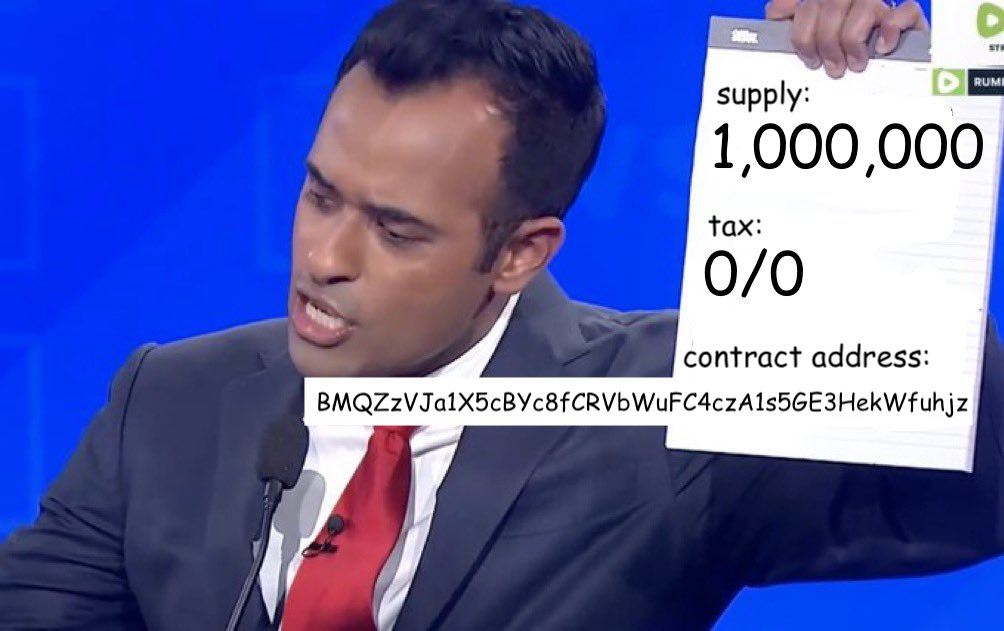
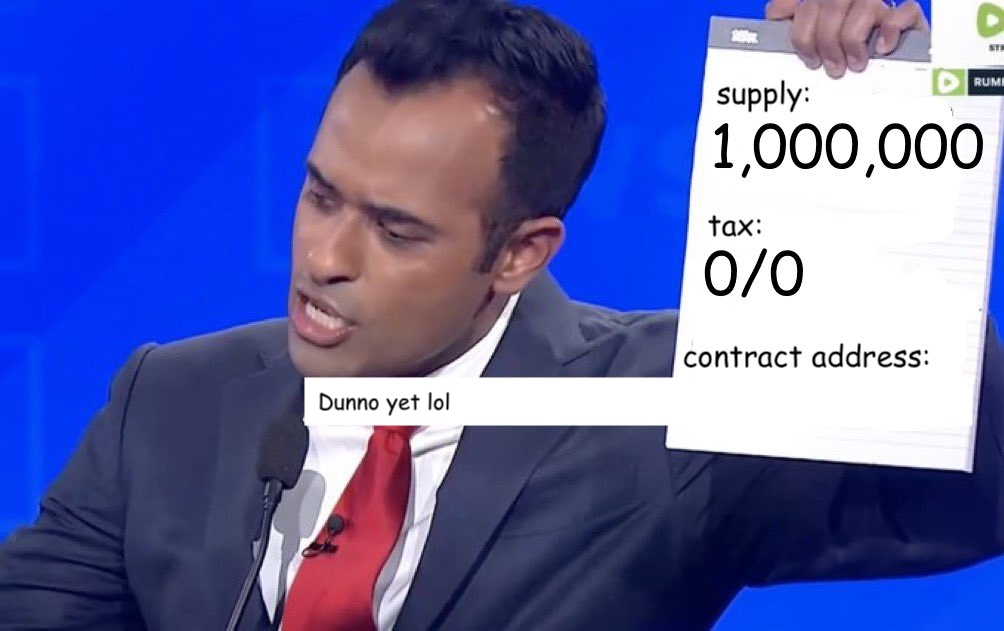
Update X link, remove dummy token address

Changed region(s): [[0.3088, 0.6022, 0.988, 0.6624]]

diff --git a/app/page.tsx b/app/page.tsx
@@ -6,18 +6,18 @@ import Button from "@mui/material/Button";
 import Paper from "@mui/material/Paper";
 import IconButton from "@mui/material/IconButton";
 import vivek from "./assets/vivek-himself.png";
-import amezunGuy from "./assets/Adsiz-tasarim-kopyasi.webp";
-import amezunWork from "./assets/amezun-work.webp";
 import vivekNotepad from "./assets/vivek-notepad.jpeg";
 import vivekRockChild from "./assets/vivek-rock-child.png";
-import smilingEmoji from "./assets/smiling-emoji.jpg";
 import XIcon from "@mui/icons-material/X";
-import TelegramIcon from "@mui/icons-material/Telegram";
-import { COIN_NAME, TAGLINE, CONTRACT_ADDRESS } from "./constants";
+import {
+  COIN_NAME,
+  TAGLINE,
+  CONTRACT_ADDRESS,
+  TWITTER_HANDLE,
+} from "./constants";
 import Dialog from "@mui/material/Dialog";
 import DialogContent from "@mui/material/DialogContent";
 import DialogContentText from "@mui/material/DialogContentText";
-import DialogTitle from "@mui/material/DialogTitle";
 
 export default function Home() {
   const [open, setOpen] = React.useState(false);
@@ -63,7 +63,7 @@ export default function Home() {
             className="w-full"
           />
         </section>
-        <section className="p-16">
+        <section className="p-8 sm:p-16">
           <header className="text-center mb-8">
             <h2 className="text-5xl sm:text-6xl md:text-8xl">wiwek rama$wag</h2>
           </header>
@@ -77,7 +77,7 @@ export default function Home() {
               <h4 className="text-3xl sm:text-4xl md:text-5xl mb-4 text-gray-400">
                 {TAGLINE}
               </h4>
-              <p>
+              <p className="text-lg">
                 {`oh heyyo, me Vivek Ramaswag (the 1 in the middl), dat boi who go "nuh-uh" to pharma
                 biggie life, flingin' shade at thicc corp 'wokez'. Rote "Woak,
                 Ink." cuz moolah > virtue-flashin', y'feel? Might yeeto into
@@ -178,11 +178,8 @@ export default function Home() {
             {CONTRACT_ADDRESS}
           </p>
           <div className="flex flex-row gap-4">
-            <IconButton onClick={() => {}}>
+            <IconButton href={`https://twitter.com/${TWITTER_HANDLE}`}>
               <XIcon />
-            </IconButton>
-            <IconButton onClick={() => {}}>
-              <TelegramIcon />
             </IconButton>
           </div>
 

diff --git a/app/components/Navbar.tsx b/app/components/Navbar.tsx
@@ -1,7 +1,7 @@
 "use client";
 
 import * as React from "react";
-import { COIN_NAME } from "../constants";
+import { COIN_NAME, TWITTER_HANDLE } from "../constants";
 import AppBar from "@mui/material/AppBar";
 import Box from "@mui/material/Box";
 import Toolbar from "@mui/material/Toolbar";
@@ -13,7 +13,14 @@ import Container from "@mui/material/Container";
 import Button from "@mui/material/Button";
 import MenuItem from "@mui/material/MenuItem";
 
-const pages = ["Tweetr (I mean X)", "Telgrum"];
+type navLink = {
+  text: string;
+  link: string;
+};
+
+const pages: navLink[] = [
+  { text: "Tweetr (I mean X)", link: `https://twitter.com/${TWITTER_HANDLE}` },
+];
 
 function Navbar() {
   const [anchorElNav, setAnchorElNav] = React.useState<null | HTMLElement>(
@@ -95,8 +102,8 @@ function Navbar() {
               className="block md:hidden"
             >
               {pages.map((page) => (
-                <MenuItem key={page} onClick={handleCloseNavMenu}>
-                  <Typography textAlign="center">{page}</Typography>
+                <MenuItem key={page.text} href={page.link}>
+                  <Typography textAlign="center">{page.text}</Typography>
                 </MenuItem>
               ))}
             </Menu>
@@ -105,11 +112,11 @@ function Navbar() {
             {pages.map((page) => (
               <Button
                 className="ml-5"
-                key={page}
-                onClick={handleCloseNavMenu}
+                key={page.text}
+                href={page.link}
                 sx={{ mx: 1, my: 2, color: "white", display: "block" }}
               >
-                {page}
+                {page.text}
               </Button>
             ))}
           </Box>

diff --git a/app/constants.ts b/app/constants.ts
@@ -1,3 +1,4 @@
 export const COIN_NAME = "WIWEK";
 export const TAGLINE = "woakism not broakism";
-export const CONTRACT_ADDRESS = "EcRzZKeytynRaFBFg8nmZsKv1CT865a913RNWiJcm6iY"
+export const TWITTER_HANDLE = "wiwekforsolana";
+export const CONTRACT_ADDRESS = "dunno the address yet"
